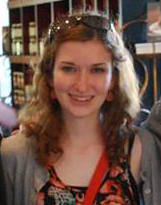
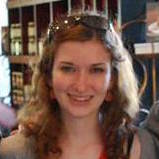
Updated my homepage

diff --git a/essential/defaultstyles.css b/essential/defaultstyles.css
@@ -1,0 +1,70 @@
+body {
+    max-width: 100%;
+    margin: 0;
+    padding: 0;
+    font-family: sans-serif;
+    background: whitesmoke;
+}
+
+.navbar-brand {
+    color: rgb(231, 0, 0) !important;
+    text-shadow: none !important;
+    padding: 10px;
+    text-transform: uppercase;
+    font-size: 27px;
+}
+
+.navbar-brand, h2 {
+    font-family: Rockwell, 'Courier New', Courier, Georgia, Times, 'Times New Roman', serif;
+}
+
+nav.navbar {
+    width: 100%;
+	border-radius: 0px;
+    background: white;
+    border: none;
+}
+
+ul.navbar-nav li a {
+    text-transform: uppercase;
+    text-shadow: none !important;
+    font-size: 13px;
+    padding: 10px;
+    font-weight: 500;
+}
+
+ul.navbar-nav li a:hover {
+    color: black !important;
+}
+
+ul.navbar-nav li a:visited {
+    color: #9d9d9d !important;
+}
+
+.navbar-inverse .navbar-toggle .icon-bar {
+    background: black !important;
+}
+
+.container {
+    margin-top: 110px;
+    text-align: center;
+}
+
+img.headshot {
+    border-radius: 80px;
+}
+
+ol {
+    width: 200px;
+    margin: 0px auto;
+}
+
+a {
+    color: #08f;
+    font-weight: bold;
+    text-decoration: none;
+}
+
+li {
+    margin-bottom: 10px;
+}
